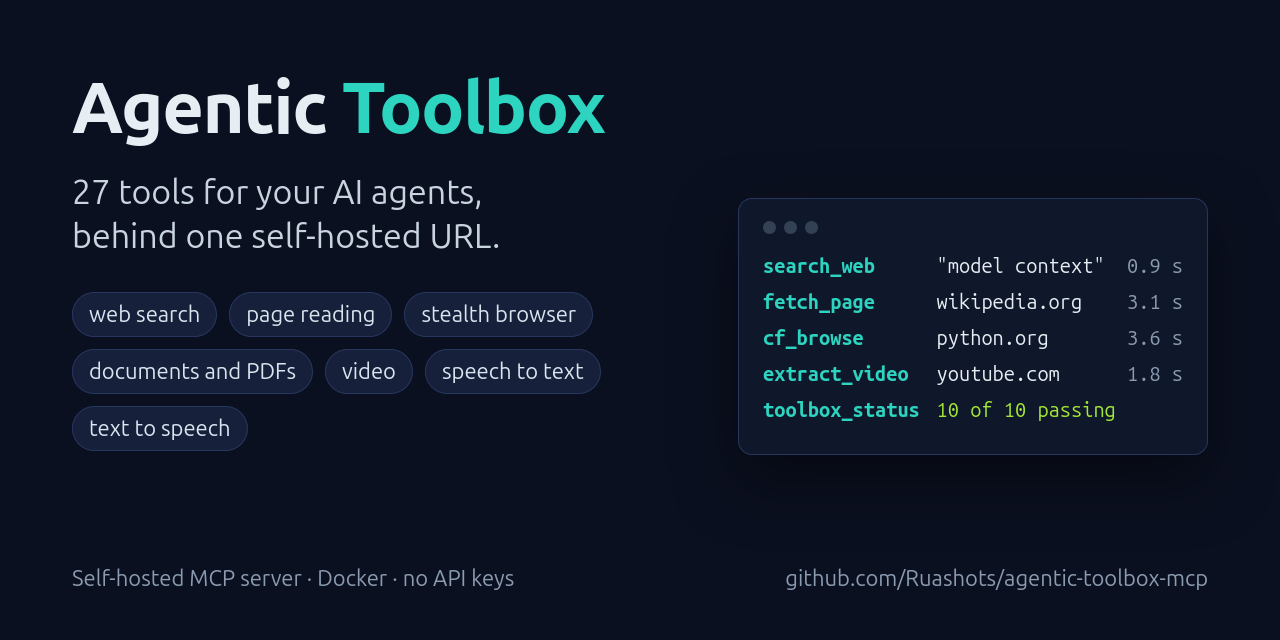
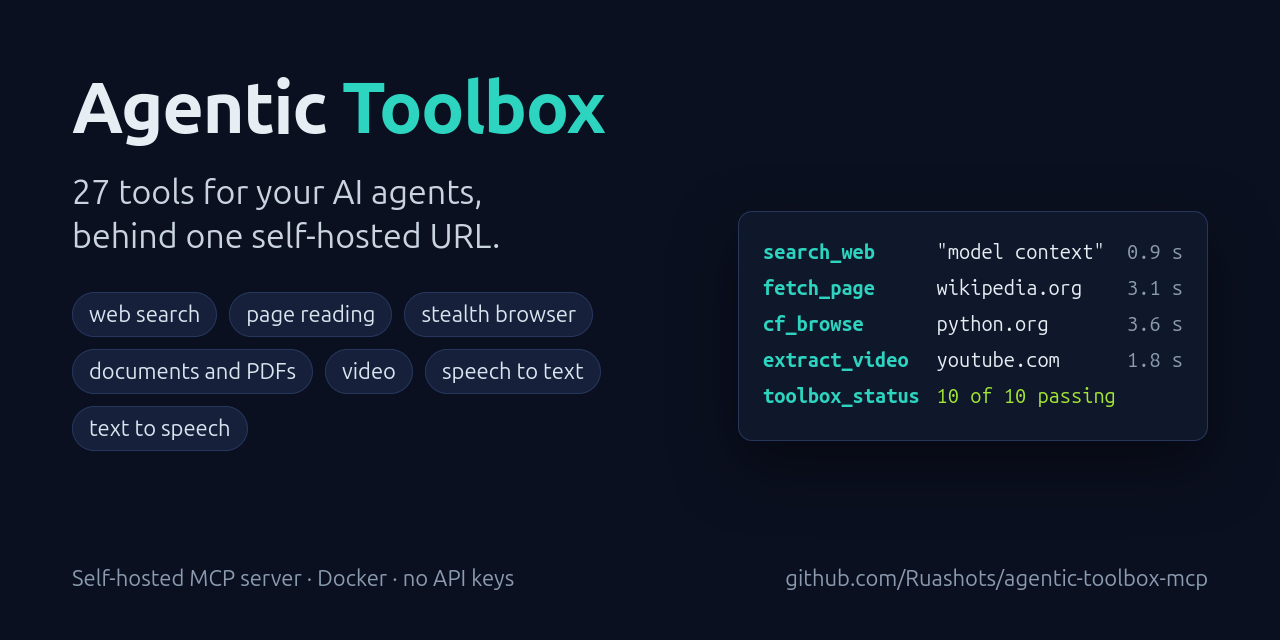
Draw the README image and social card without Mac window buttons
Rich's image export draws the three colored macOS window buttons, and
the social card copied that look with three dots. The toolbox runs on
Linux, or on Windows through WSL 2, so both images now show a plain
terminal. Search titles in the demo are now shortened at a word with an
ellipsis instead of being cut mid-word. Both images are regenerated from
a running toolbox.

Changed region(s): [[0.5938, 0.3438, 0.9062, 0.6562]]

diff --git a/docs/media/social-card.html b/docs/media/social-card.html
@@ -32,8 +32,6 @@
     font-size: 20px; line-height: 1.8;
     box-shadow: 0 24px 60px rgba(0, 0, 0, 0.45);
   }
-  .dots { display: flex; gap: 8px; margin-bottom: 14px; }
-  .dots span { width: 13px; height: 13px; border-radius: 50%; background: #334155; }
   .row { display: grid; grid-template-columns: 15.5ch 1fr auto; white-space: nowrap; }
   .tool { color: #2dd4bf; font-weight: 700; }
   .dim { color: #8b9bb0; }
@@ -60,7 +58,6 @@
     </div>
   </main>
   <section class="term" aria-label="Example tool calls">
-    <div class="dots"><span></span><span></span><span></span></div>
     <div class="row"><span class="tool">search_web</span><span>"model context"</span><span class="dim">0.9 s</span></div>
     <div class="row"><span class="tool">fetch_page</span><span>wikipedia.org</span><span class="dim">3.1 s</span></div>
     <div class="row"><span class="tool">cf_browse</span><span>python.org</span><span class="dim">3.6 s</span></div>

diff --git a/gateway/demo.py b/gateway/demo.py
@@ -16,6 +16,8 @@ It takes under a minute. Set DEMO_SVG to also save the output as an image
 import asyncio
 import json
 import os
+import re
+import sys
 import time
 
 from fastmcp import Client
@@ -43,6 +45,15 @@ def row(tool, what, seconds):
     took = f"{seconds:5.1f} s"
     pad = max(1, WIDTH - 16 - len(what) - len(took))
     console.print(Text.assemble((f"{tool:<15} ", "bold cyan"), what, " " * pad, (took, "dim")))
+
+
+def clip(text, width):
+    """Shorten text to width at a word boundary, ending with an ellipsis."""
+    text = " ".join(str(text).split())
+    if len(text) <= width:
+        return text
+    cut = text[: width - 1].rsplit(" ", 1)[0].rstrip(" \\|-:,")
+    return cut + "\u2026"
 
 
 def detail(text, style=""):
@@ -73,7 +84,7 @@ async def main():
             detail(str(data(r)), "red")
         for i, hit in enumerate([] if r.is_error else data(r), 1):
             site = hit["url"].split("/")[2].removeprefix("www.")
-            detail(f"{i}. {hit['title'][:43]:<43}  {site}")
+            detail(f"{i}. {clip(hit['title'], 43):<43}  {site}")
 
         page = "https://en.wikipedia.org/wiki/Large_language_model"
         r, s = await call(c, "fetch_page", {"url": page})
@@ -109,7 +120,13 @@ async def main():
 
     svg = os.environ.get("DEMO_SVG")
     if svg:
-        console.save_svg(svg, title="docker exec tb-gateway python demo.py")
+        image = console.export_svg(title="docker exec tb-gateway python demo.py")
+        # Rich draws macOS-style window buttons. The toolbox runs on Linux: leave them out.
+        image, found = re.subn(r'\s*<g transform="translate\(26,22\)">\s*(?:<circle [^>]*/>\s*){3}</g>', "", image)
+        if found != 1:
+            sys.exit("demo: the window buttons were not found in the image")
+        with open(svg, "w") as f:
+            f.write(image)
 
 
 asyncio.run(main())
